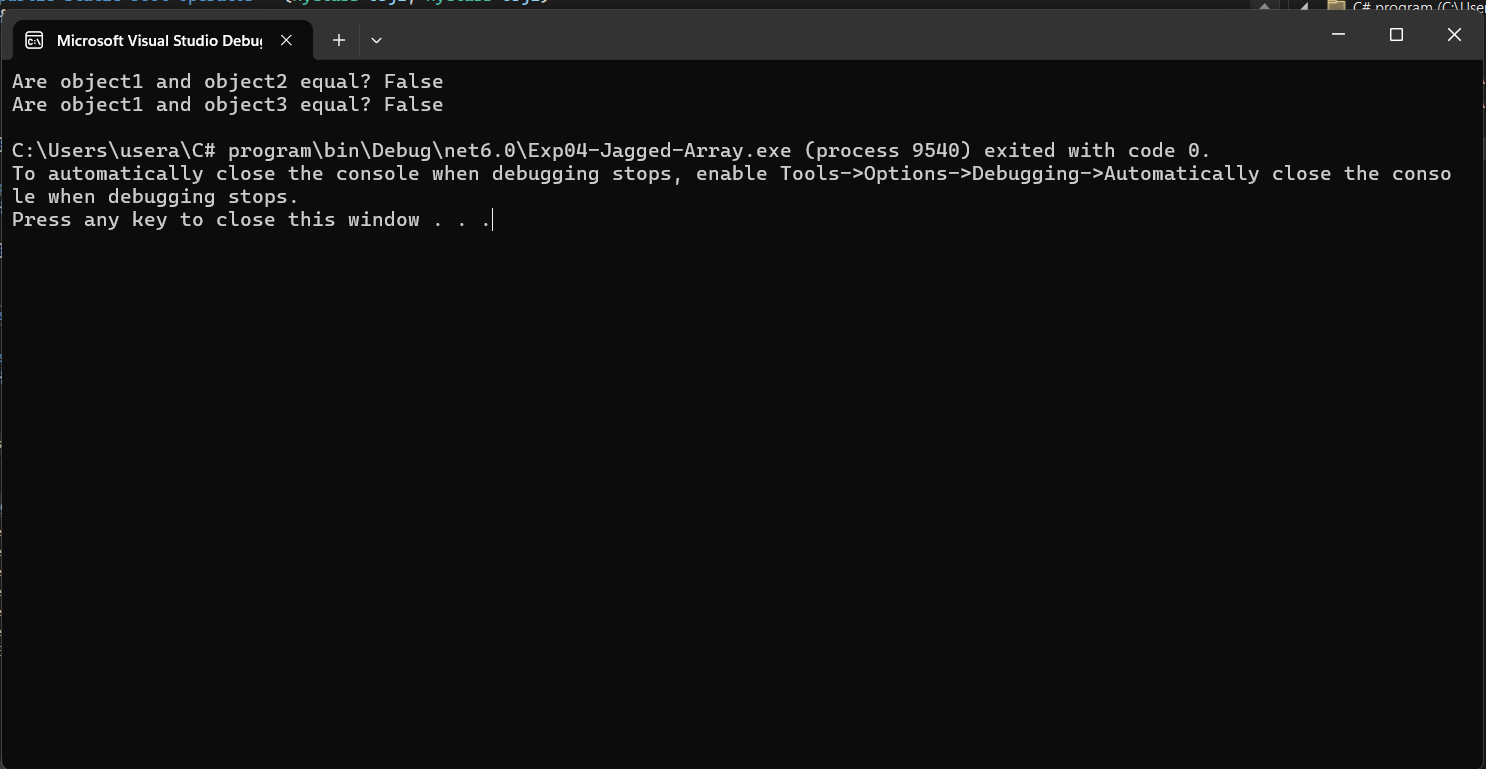
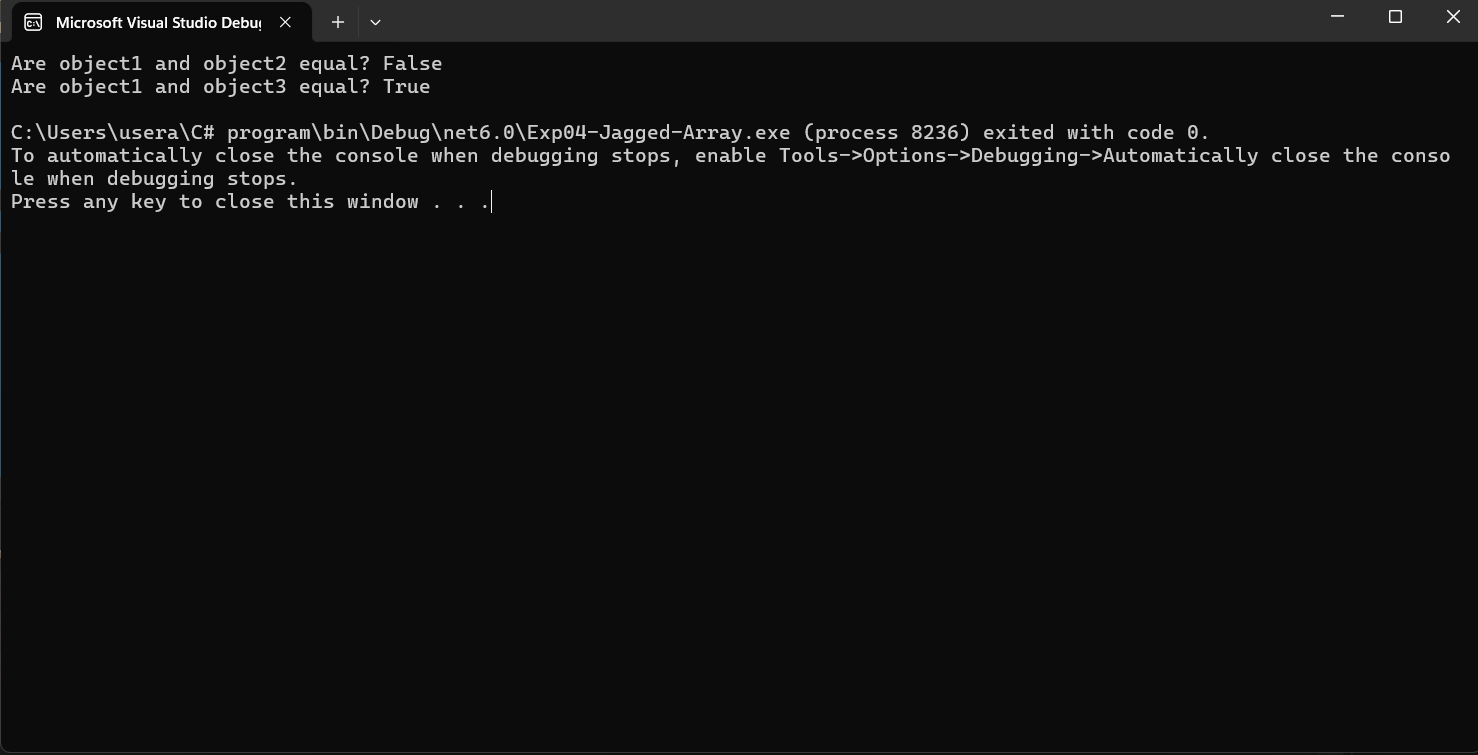
added

Changed region(s): [[0.0, 0.0, 1.0, 1.0], [0.0, 0.9748, 0.0311, 1.0]]

diff --git a/Program.cs b/Program.cs
@@ -12,7 +12,7 @@ namespace OperatorOverloading
 
         public MyClass()
         {
-            this.value = 3;
+            this.value = 11;
         }
 
         public MyClass(int value)
@@ -47,7 +47,7 @@ namespace OperatorOverloading
         {
             MyClass ob1 = new MyClass(28);
             MyClass ob2 = new MyClass();
-            MyClass ob3 = new MyClass(11);
+            MyClass ob3 = new MyClass(28);
 
             Console.WriteLine("Are object1 and object2 equal? " + (ob1 == ob2));
             Console.WriteLine("Are object1 and object3 equal? " + (ob1 == ob3));

diff --git a/README.md b/README.md
@@ -26,52 +26,57 @@ Register Number:212223230201
 ```
 using System;
 
-class MyClass
+namespace OperatorOverloading
 {
-    private int value;
-
-    public MyClass()
+    class MyClass
     {
-        this.value = 3;
+        private int value;
+
+        public MyClass()
+        {
+            this.value = 11;
+        }
+
+        public MyClass(int value)
+        {
+            this.value = value;
+        }
+
+        public int GetValue()
+        {
+            return value;
+        }
+
+        public static bool operator ==(MyClass obj1, MyClass obj2)
+        {
+
+            if (obj1 is null || obj2 is null)
+                return false;
+
+            return obj1.value == obj2.value;
+        }
+
+        public static bool operator !=(MyClass obj1, MyClass obj2)
+        {
+            return !(obj1 == obj2);
+        }
     }
 
-    public MyClass(int value)
+
+    class Program
     {
-        this.value = value;
-    }
+        static void Main(string[] args)
+        {
+            MyClass ob1 = new MyClass(28);
+            MyClass ob2 = new MyClass();
+            MyClass ob3 = new MyClass(28);
 
-    public int GetValue()
-    {
-        return value;
-    }
-
-    public static bool operator ==(MyClass obj1, MyClass obj2)
-    {
-
-        if (obj1 is null || obj2 is null)
-            return false;
-
-        return obj1.value == obj2.value;
-    }
-
-    public static bool operator !=(MyClass obj1, MyClass obj2)
-    {
-        return !(obj1 == obj2);
+            Console.WriteLine("Are object1 and object2 equal? " + (ob1 == ob2));
+            Console.WriteLine("Are object1 and object3 equal? " + (ob1 == ob3));
+        }
     }
 }
 
-class Overload
-{
-    static void Main(string[] args)
-    {
-        MyClass ob1 = new MyClass(28);
-        MyClass ob2 = new MyClass(); 
-        MyClass ob3 = new MyClass(11);
-
-        Console.WriteLine("Are object1 and object2 equal? " + (ob1 == ob2));
-        Console.WriteLine("Are object1 and object3 equal? " + (ob1 == ob3));
-    }
-}
 ```
 
 # OUTPUT:
